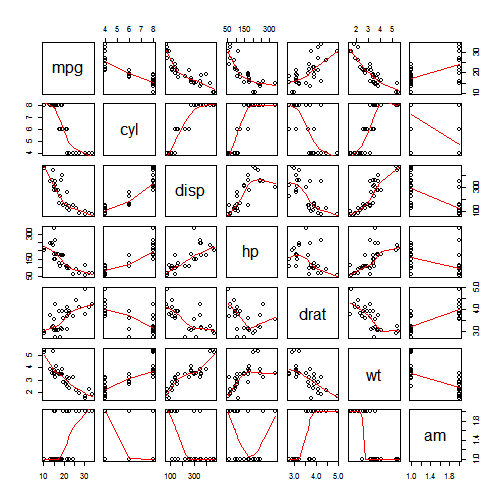
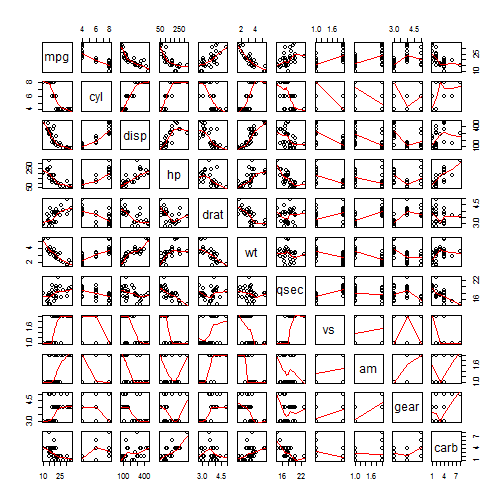
Exploratory

Changed region(s): [[0.0298, 0.0298, 0.9524, 0.9524], [0.9226, 0.8036, 0.9524, 0.8333]]

diff --git a/RegModelsMPG.html b/RegModelsMPG.html
@@ -181,12 +181,72 @@ hljs.initHighlightingOnLoad();
 <body>
 <h1>Transmission Effects On MPG In Cars</h1>
 
-<h1>Executive Summary</h1>
+<h2>1. Executive Summary</h2>
 
-<p>In this paper, we look at 1974 Motor Trend Data [1] for the purpose of evaluating factors on fuel efficiency. We specifically are interested in the
-effects of automatic vs manual transmission on the gas mileage. Our analysis predicted that the weight of the car directly related, and the choice of manual or automatic depends on it.</p>
+<p>This paper is based at 1974 Motor Trend Data that contains fuel consumption related with 10 aspects of automobile design and performance for 32 cars models 1973-74. The purpose is to estimate the effect of the type of transmission (automatic vs manual) on the miles per gallon (MPG). The results suggest that manual transmission have a higher MPG. However the weight and horse power are attibutes that have a siginficant influence in the results.</p>
 
-<h1>Data</h1>
+<h2>2. Exploratory Data Analysis</h2>
+
+<p>Based on common sense we can assume that the mpg of a car depends on its weight and its power, also the cars with more cylinders have a larger displacement and more horse power. The following plot shows these theories.</p>
+
[1 lines of base64/hex data omitted]
+
+<p>The left plot offer following insights:</p>
+
+<ul>
+<li>2.1.1 The cars with automatic transmission are heavy.</li>
+<li>2.1.2 The cars with manual transmission are lightweight.</li>
+<li>2.1.2 A positive relationship between number of cylinders and weight.</li>
+<li>2.1.3 A negative relationship between MPG and weight.</li>
+</ul>
+
+<p>The right plot offer following insights:</p>
+
+<ul>
+<li>2.2.1 A linear relationship between displacement and horse power.</li>
+<li>2.2.2 There is not a relation between number of cylinders and displacement.</li>
+<li>2.2.3 Cars with more cylinders provides major horsepower.</li>
+<li>2.2.4 Cars with more horsepower have automatic transmission.</li>
+</ul>
+
+<p>#Models
+We need to check that a relationship does exist between MPG and Transmission with a simple linear model.</p>
+
+<pre><code class="r">model1 &lt;- lm(mpg ~ am, mtcarst)
+summary(model1)$coefficients
+</code></pre>
+
+<pre><code>##             Estimate Std. Error t value  Pr(&gt;|t|)
+## (Intercept)   17.147      1.125  15.247 1.134e-15
+## amManual       7.245      1.764   4.106 2.850e-04
+</code></pre>
+
+<p>We can see a strong relationship does exist with a p-value &lt; 0.001 considering only transmission. However we have to evaluate this factors: weight, and number of cylinders.</p>
+
+<pre><code class="r">model2 &lt;- update(model1, mpg ~ am + wt)
+summary(model2)$coefficients
+</code></pre>
+
+<pre><code>##             Estimate Std. Error  t value  Pr(&gt;|t|)
+## (Intercept) 37.32155     3.0546 12.21799 5.843e-13
+## amManual    -0.02362     1.5456 -0.01528 9.879e-01
+## wt          -5.35281     0.7882 -6.79081 1.867e-07
+</code></pre>
+
+<pre><code class="r">model3 &lt;- update(model1, mpg ~ am + wt + cyl)
+summary(model3)$coefficients
+</code></pre>
+
+<pre><code>##             Estimate Std. Error t value  Pr(&gt;|t|)
+## (Intercept)  39.4179     2.6415 14.9228 7.425e-15
+## amManual      0.1765     1.3045  0.1353 8.933e-01
+## wt           -3.1251     0.9109 -3.4309 1.886e-03
+## cyl          -1.5102     0.4223 -3.5764 1.292e-03
+</code></pre>
+
+<h1>Appendix</h1>
+
+<h2>Data</h2>
 
 <p>The data frame consists of 32 observations on 11 variables.</p>
 
@@ -202,14 +262,6 @@ effects of automatic vs manual transmission on the gas mileage. Our analysis pre
 <li>am: Transmission (0 = automatic, 1 = manual)</li>
 <li>gear: Number of forward gears</li>
 </ul>
-
-<pre><code class="r">data(mtcars)
-mtcarst &lt;- within(mtcars, {
-    am &lt;- factor(am, labels = c(&quot;Automatic&quot;, &quot;Manual&quot;))
-    vs &lt;- factor(vs, labels = c(&quot;Vengine&quot;, &quot;Iengine&quot;))
-})
-head(mtcarst)
-</code></pre>
 
 <pre><code>##                    mpg cyl disp  hp drat    wt  qsec      vs        am
 ## Mazda RX4         21.0   6  160 110 3.90 2.620 16.46 Vengine    Manual
@@ -227,52 +279,6 @@ head(mtcarst)
 ## Valiant              3    1
 </code></pre>
 
-<h1>Exploratory Data Analysis</h1>
-
-<p>The initial exploration of the data use a boxplot in the <a href="#boxplot">Appendix</a> shows a comparison miles per gallon (MPG) versus transmission (0 = Automatic, 1 = Manual). This plot motivates us to build a linear regression for MPG over transmission.</p>
-
-<p>The pairs scatterplots in the <a href="#scatter">Appendix</a> allows to observe that MPG appeared to be highly correlated with all the variables
-except rear axle ratio and transmission.</p>
-
-<p>#Models
-We need to check that a relationship does exist between MPG and Transmission with a simple linear model.</p>
-
-<pre><code class="r">model1 &lt;- lm(mpg ~ am, mtcarst)
-summary(model1)$coefficients
-</code></pre>
-
-<pre><code>##             Estimate Std. Error t value  Pr(&gt;|t|)
-## (Intercept)   17.147      1.125  15.247 1.134e-15
-## amManual       7.245      1.764   4.106 2.850e-04
-</code></pre>
-
-<pre><code class="r">summary(model1)
-</code></pre>
-
-<pre><code>## 
-## Call:
-## lm(formula = mpg ~ am, data = mtcarst)
-## 
-## Residuals:
-##    Min     1Q Median     3Q    Max 
-## -9.392 -3.092 -0.297  3.244  9.508 
-## 
-## Coefficients:
-##             Estimate Std. Error t value Pr(&gt;|t|)    
-## (Intercept)    17.15       1.12   15.25  1.1e-15 ***
-## amManual        7.24       1.76    4.11  0.00029 ***
-## ---
-## Signif. codes:  0 &#39;***&#39; 0.001 &#39;**&#39; 0.01 &#39;*&#39; 0.05 &#39;.&#39; 0.1 &#39; &#39; 1
-## 
-## Residual standard error: 4.9 on 30 degrees of freedom
-## Multiple R-squared:  0.36,   Adjusted R-squared:  0.338 
-## F-statistic: 16.9 on 1 and 30 DF,  p-value: 0.000285
-</code></pre>
-
-<p>We can see a string relationship does exist with a p-value </p>
-
-<h1>Appendix</h1>
-
 <h2>MPG versus Transmission</h2>
 
 <pre><code class="r">op &lt;- par(mar = c(2, 2, 1, 1))
@@ -281,7 +287,7 @@ stripchart(mpg ~ am, data = mtcarst, vertical = T, method = &quot;jitter&quot;, 
     add = T)
 </code></pre>
 
[2 lines of base64/hex data omitted]
 
 <pre><code class="r">par(op)
 </code></pre>
@@ -289,10 +295,10 @@ stripchart(mpg ~ am, data = mtcarst, vertical = T, method = &quot;jitter&quot;, 
 <h2>MPG against all variables</h2>
 
 <pre><code class="r">require(graphics)
-pairs(mtcarst[, c(1:6, 9)], panel = panel.smooth)
+pairs(mpg ~ ., data = mtcarst, panel = panel.smooth)
 </code></pre>
 
[2 lines of base64/hex data omitted]
 
 </body>
 

diff --git a/RegModelsMPG.md b/RegModelsMPG.md
@@ -1,11 +1,80 @@
 Transmission Effects On MPG In Cars
 ====================================
 
-# Executive Summary
-In this paper, we look at 1974 Motor Trend Data [1] for the purpose of evaluating factors on fuel efficiency. We specifically are interested in the
-effects of automatic vs manual transmission on the gas mileage. Our analysis predicted that the weight of the car directly related, and the choice of manual or automatic depends on it.
 
-# Data
+
+
+## 1. Executive Summary
+This paper is based at 1974 Motor Trend Data that contains fuel consumption related with 10 aspects of automobile design and performance for 32 cars models 1973-74. The purpose is to estimate the effect of the type of transmission (automatic vs manual) on the miles per gallon (MPG). The results suggest that manual transmission have a higher MPG. However the weight and horse power are attibutes that have a siginficant influence in the results.
+
+## 2. Exploratory Data Analysis
+Based on common sense we can assume that the mpg of a car depends on its weight and its power, also the cars with more cylinders have a larger displacement and more horse power. The following plot shows these theories.
+
+![plot of chunk unnamed-chunk-1](figure/unnamed-chunk-1.png) 
+
+
+The left plot offer following insights:
+* 2.1.1 The cars with automatic transmission are heavy.
+* 2.1.2 The cars with manual transmission are lightweight.
+* 2.1.2 A positive relationship between number of cylinders and weight.
+* 2.1.3 A negative relationship between MPG and weight.
+
+The right plot offer following insights:
+* 2.2.1 A linear relationship between displacement and horse power.
+* 2.2.2 There is not a relation between number of cylinders and displacement.
+* 2.2.3 Cars with more cylinders provides major horsepower.
+* 2.2.4 Cars with more horsepower have automatic transmission.
+
+
+
+#Models
+We need to check that a relationship does exist between MPG and Transmission with a simple linear model.
+
+
+```r
+model1 <- lm(mpg ~ am, mtcarst)
+summary(model1)$coefficients
+```
+
+```
+##             Estimate Std. Error t value  Pr(>|t|)
+## (Intercept)   17.147      1.125  15.247 1.134e-15
+## amManual       7.245      1.764   4.106 2.850e-04
+```
+
+We can see a strong relationship does exist with a p-value < 0.001 considering only transmission. However we have to evaluate this factors: weight, and number of cylinders.
+
+
+```r
+model2 <- update(model1, mpg ~ am + wt)
+summary(model2)$coefficients
+```
+
+```
+##             Estimate Std. Error  t value  Pr(>|t|)
+## (Intercept) 37.32155     3.0546 12.21799 5.843e-13
+## amManual    -0.02362     1.5456 -0.01528 9.879e-01
+## wt          -5.35281     0.7882 -6.79081 1.867e-07
+```
+
+
+
+```r
+model3 <- update(model1, mpg ~ am + wt + cyl)
+summary(model3)$coefficients
+```
+
+```
+##             Estimate Std. Error t value  Pr(>|t|)
+## (Intercept)  39.4179     2.6415 14.9228 7.425e-15
+## amManual      0.1765     1.3045  0.1353 8.933e-01
+## wt           -3.1251     0.9109 -3.4309 1.886e-03
+## cyl          -1.5102     0.4223 -3.5764 1.292e-03
+```
+
+
+# Appendix
+## Data
 The data frame consists of 32 observations on 11 variables.
 - mpg: Miles/(US) gallon
 - cyl: Number of cylinders
@@ -18,15 +87,6 @@ The data frame consists of 32 observations on 11 variables.
 - am: Transmission (0 = automatic, 1 = manual)
 - gear: Number of forward gears
 
-
-```r
-data(mtcars)
-mtcarst <- within(mtcars, {
-    am <- factor(am, labels = c("Automatic", "Manual"))
-    vs <- factor(vs, labels = c("Vengine", "Iengine"))
-})
-head(mtcarst)
-```
 
 ```
 ##                    mpg cyl disp  hp drat    wt  qsec      vs        am
@@ -46,55 +106,6 @@ head(mtcarst)
 ```
 
 
-# Exploratory Data Analysis
-The initial exploration of the data use a boxplot in the [Appendix](#boxplot) shows a comparison miles per gallon (MPG) versus transmission (0 = Automatic, 1 = Manual). This plot motivates us to build a linear regression for MPG over transmission.
-
-The pairs scatterplots in the [Appendix](#scatter) allows to observe that MPG appeared to be highly correlated with all the variables
-except rear axle ratio and transmission.
-
-#Models
-We need to check that a relationship does exist between MPG and Transmission with a simple linear model.
-
-
-```r
-model1 <- lm(mpg ~ am, mtcarst)
-summary(model1)$coefficients
-```
-
-```
-##             Estimate Std. Error t value  Pr(>|t|)
-## (Intercept)   17.147      1.125  15.247 1.134e-15
-## amManual       7.245      1.764   4.106 2.850e-04
-```
-
-```r
-summary(model1)
-```
-
-```
-## 
-## Call:
-## lm(formula = mpg ~ am, data = mtcarst)
-## 
-## Residuals:
-##    Min     1Q Median     3Q    Max 
-## -9.392 -3.092 -0.297  3.244  9.508 
-## 
-## Coefficients:
-##             Estimate Std. Error t value Pr(>|t|)    
-## (Intercept)    17.15       1.12   15.25  1.1e-15 ***
-## amManual        7.24       1.76    4.11  0.00029 ***
-## ---
-## Signif. codes:  0 '***' 0.001 '**' 0.01 '*' 0.05 '.' 0.1 ' ' 1
-## 
-## Residual standard error: 4.9 on 30 degrees of freedom
-## Multiple R-squared:  0.36,	Adjusted R-squared:  0.338 
-## F-statistic: 16.9 on 1 and 30 DF,  p-value: 0.000285
-```
-
-We can see a string relationship does exist with a p-value 
-
-# Appendix
 
 ## MPG versus Transmission
 
@@ -115,7 +126,7 @@ par(op)
 
 ```r
 require(graphics)
-pairs(mtcarst[, c(1:6, 9)], panel = panel.smooth)
+pairs(mpg ~ ., data = mtcarst, panel = panel.smooth)
 ```
 
 ![plot of chunk scatter](figure/scatter.png) 
